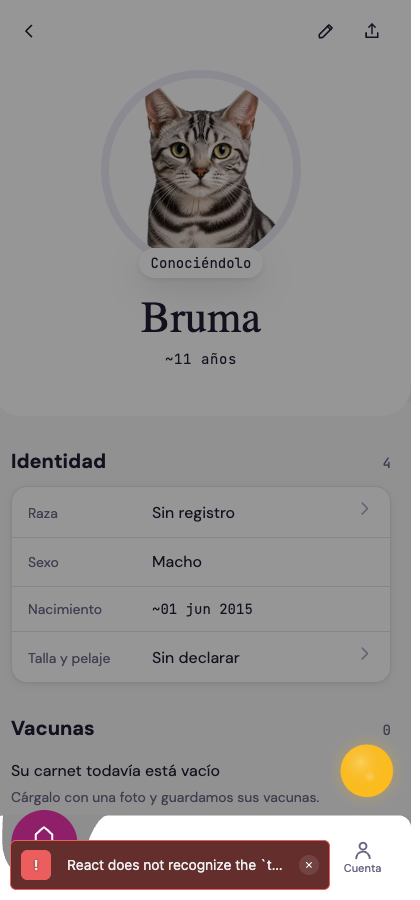
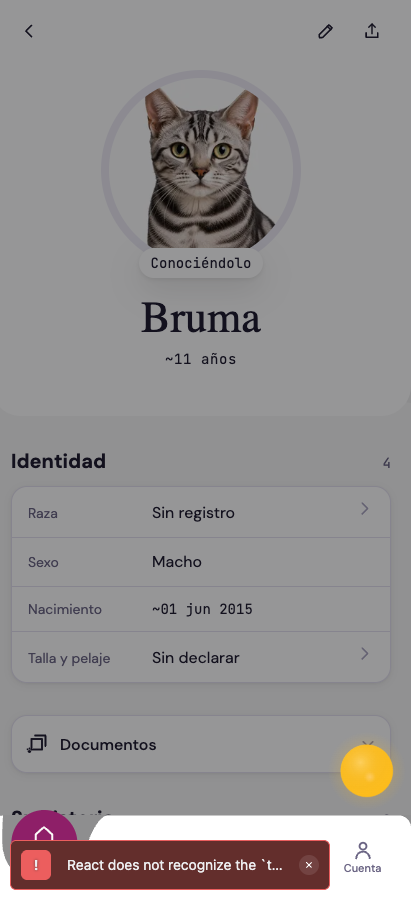
S113-C · lote 0.4: memorial entero — y el gate era ciego al enclítico
Cuenta declarada: guillo381+8@gmail.com (la de Bruma y Sombra).

① D-1024, Y SU SEGUNDA PUERTA QUE NADIE HABIA NOMBRADO
«Cárgalo con una foto» colgaba de `monta.vacunas` (sujeto), no del estado de
vida. La seccion NO muere en memorial: las vacunas que tuvo se leen. Lo que se
apaga es la invitacion cuando no hay ninguna — y con ella la seccion entera,
porque un rotulo «Vacunas 0» sin nada debajo es peor que no estar.
Y la MISMA frase vivia en `hogar/vacunas/[mascotaId]`, con su boton y el mismo
guard muerto del tema. No la nombro nadie: la encontro el censo al sumarla POR
CLASE. Ahi queda el titulo y se retiran descripcion y boton: no se inventa una
voz nueva para el duelo, se retira la que pide.

② EL GATE ERA CIEGO AL ENCLITICO — el hallazgo de metodo
`carg[aá]` ve «carga» y «cargá» y NO ve «Cárgalo»: con enclitico la tilde se
corre a la primera vocal, y las dos voces de la casa la mueven al reves. Una
regex que la espera en una vocal fija ve la mitad del idioma. Ahora se
NORMALIZA y se comparan raices sin tilde.
CONTROL POSITIVO, el que faltaba: se plantan las cinco del mandato en las dos
voces (Cárgalo·Regístralo·Súbelo·Anótalo·Compártelo y Cargalo·Registralo·
Subilo·Anotalo·Compartilo) y el censo sale en 2 si no las ve todas. 10/10.
La primera prueba de un detector no es que apruebe lo bueno: es que marque lo
malo — cuando D-1024 paso por debajo, el censo estaba en verde.

③ D-1026 · LA LIB LEE EL MISMO HECHO, y quien lo destapo fue la casa
[…]

Changed region(s): [[0.031, 0.7778, 0.619, 0.9022], [0.65, 0.8711, 0.7429, 0.9022]]

diff --git a/apps/cliente/src/app/(tabs)/hogar/index.tsx b/apps/cliente/src/app/(tabs)/hogar/index.tsx
@@ -1215,6 +1215,21 @@ export default function Hogar() {
       hoy,
     );
   };
+  /* 🔴 **ARRIBA DE `filasReco`, Y NO DONDE VIVÍA `mascotaDe`.** Puesto abajo
+     compila igual y **crashea la pantalla entera**: `filasReco` es un IIFE que
+     corre al render, así que lee esto antes de que exista (TDZ). Lo destapó el
+     arnés —«Esta pantalla no se pudo mostrar»—, no el typecheck: *un `const`
+     usado antes de declararse es un error de TIEMPO, y el compilador mira
+     tipos.* `verify:ref-antes-de-uso` tampoco lo ve: su alcance escrito son
+     los `useRef`, y esto es una función. */
+  const mascotaDe = (id: string) => (Array.isArray(mascotas) ? mascotas.find((m) => m.id === id) : undefined);
+  /** El hecho, en UN solo lugar de esta pantalla: lo leen el filtro de las
+   *  filas y la lib de pendientes, que antes decían cosas distintas. */
+  const enMemoriaDe = (id: string): boolean => {
+    const m = mascotaDe(id);
+    return m !== undefined && m.estado_vida !== null && m.estado_vida !== 'activa';
+  };
+
   const filasReco: FilaReco_[] = (() => {
     /* ⚠ Este `esMemorial` es el del TEMA, y **en el Hogar es el instrumento
        equivocado**: acá conviven las vivas y las que ya no están, así que un
@@ -1457,10 +1472,7 @@ export default function Hogar() {
        filtro que hay que acordarse de repetir se olvida en la sexta.* Cada fila
        ya declara de quién habla en `mascotaId`, así que el dato para callarla
        estaba y nadie lo miraba — el mismo hallazgo que la primera mitad. */
-    const enMemoria = new Set(
-      mascotas.filter((m) => m.estado_vida !== null && m.estado_vida !== 'activa').map((m) => m.id),
-    );
-    return filas.filter((f) => f.mascotaId === null || !enMemoria.has(f.mascotaId));
+    return filas.filter((f) => f.mascotaId === null || !enMemoriaDe(f.mascotaId));
   })();
   /**
    * A8 (S91-D) — EL CONTEO SALE DE LA LIB, NO DE LAS FILAS.
@@ -1472,7 +1484,6 @@ export default function Hogar() {
    * **La definición sube a `lib/pendientes.ts` y las dos superficies la
    * consumen** (letra de mesa, adoptada antes de que existiera el 2º consumidor).
    */
-  const mascotaDe = (id: string) => (Array.isArray(mascotas) ? mascotas.find((m) => m.id === id) : undefined);
   const fuentesDe = (id: string): FuentesDePendientes => {
     const s = senalesPorMascota.get(id);
     const voz = vozDe(id);
@@ -1489,13 +1500,19 @@ export default function Hogar() {
         voz.causa !== 'emergencia',
       sinNingunaVacuna:
         composicionDe(mascotaDe(id)?.sujeto).vacunas && s !== undefined && s.vacunas_total === 0,
+      enMemoria: enMemoriaDe(id),
     };
   };
-  /** ⚠ El apagado de MEMORIAL vive acá y no en la lib, y es a propósito: la
-   *  lib es dato puro y memorial es un modo de la casa. Un memorial no tiene
-   *  pendientes —no se le agenda, no se le cobra, no se le vacuna— y ése es un
-   *  apagado ESTRUCTURAL, no un filtro. (Sin esto mi propio chequeo gritaría:
-   *  `filasReco` ya devuelve `[]` en memorial.) */
+  /** 🔴 **`D-1026` · ESTA LETRA SE ENMIENDA, Y LA RAZÓN VIEJA NO ERA MALA.**
+   *  Decía: *«el apagado de MEMORIAL vive acá y no en la lib: la lib es dato
+   *  puro y memorial es un modo de la casa»*. Correcto mientras memorial fuera
+   *  el TEMA — pero ese `esMemorial` es justo el que **nadie enciende**
+   *  (`D-1021`), así que el globo de la tira siguió diciendo «1» sobre quien ya
+   *  no está. Con `D-1021` memorial dejó de ser un modo de la casa y pasó a ser
+   *  **un hecho de la mascota** (`estado_vida`) — y un hecho de la mascota SÍ
+   *  es dato puro, así que ahora le corresponde a la lib.
+   *  El `esMemorial` del tema se conserva (la galería lo monta) pero ya no es
+   *  el que rige: rige `enMemoria`, adentro. */
   const pendientesDe = (id: string) => (esMemorial ? 0 : contarPendientesDe(id, fuentesDe(id)));
 
   /**

diff --git a/apps/cliente/src/app/(tabs)/hogar/mascota/[mascotaId].tsx b/apps/cliente/src/app/(tabs)/hogar/mascota/[mascotaId].tsx
@@ -503,7 +503,7 @@ export default function PerfilDeMascota() {
        * Cuenta VECES, no milisegundos: lo que se discute es cuántas. Se retira
        * con D-726, junto con el instrumento del paseo. */
       vecesFocoRef.current += 1;
-      console.log(`[p0c-transversal] perfil de mascota · entra al efecto por VEZ ${vecesFocoRef.current}`);
+      if (__DEV__) console.log(`[p0c-transversal] perfil de mascota · entra al efecto por VEZ ${vecesFocoRef.current}`);
       setVecesFoco(vecesFocoRef.current);
 
       let vigente = true;
@@ -696,6 +696,7 @@ export default function PerfilDeMascota() {
   const pendientes = esMemorial
     ? 0
     : contarPendientesDe(mascota.id, {
+        enMemoria: esMemorial,
         solicitudes,
         presupuestos,
         porCoordinar,
@@ -1412,16 +1413,27 @@ export default function PerfilDeMascota() {
         {/* ── ⑤ VACUNAS — el resumen en UNA fila con el canto de SALUD y
             el pie que revela. "Cargar carnet" ya NO vive acá (se mudó a
             la fila de la ausencia): un solo gesto por sección. */}
-        {monta.vacunas ? (
+        {/* 🔴 **`D-1024`** — `monta.vacunas` decide por SUJETO y este bloque
+            invitaba a «Cárgalo con una foto» en la ficha de quien ya no está.
+            **La sección NO muere en memorial: las vacunas que tuvo SE LEEN.**
+            Lo que se apaga es la invitación cuando no hay ninguna, y con ella
+            la sección entera —un rótulo «Vacunas 0» sin nada debajo es peor
+            que no estar—.
+            ⚠ El guard va DOS veces a propósito: el de acá evita la sección
+            muda, y el de adentro es el que un lector —y el censo— puede
+            verificar sin tener que cruzar dos hechos en la cabeza. */}
+        {monta.vacunas && !(esMemorial && vacunas.length === 0) ? (
         <View style={{ marginTop: spacing[8] }}>
           <RotuloSeccion titulo={t('perfil.vacunas')} cuenta={String(vacunas.length)} />
           <View style={{ paddingHorizontal: spacing[5] }}>
             {vacunas.length === 0 ? (
+              !esMemorial ? (
               <EstadoVacio
                 registro="seccion"
                 titulo={t('perfil.carnetVacio')}
                 descripcion={t('perfil.carnetVacioDetalle')}
               />
+              ) : null
             ) : (
               <>
                 {/* r8 (la lámina lo pide y AHORA existe el destino): el
@@ -2028,10 +2040,18 @@ export default function PerfilDeMascota() {
         {/* 🔴 SONDA TRANSVERSAL DE P0-C (D-728) — se retira con D-726.
             Va al PIE y en voz de dato: no es contenido del expediente. Si este
             número sube al abrir una hoja, la pantalla recarga todo sin que se
-            note — la lentitud general del founder, medida. */}
+            note — la lentitud general del founder, medida.
+            ⚠ **`D-1027` — BAJO `__DEV__`.** Se estaba dibujando en el binario
+            que usa el founder, y el día que lo vio fue en la ficha de una
+            mascota que murió: *un instrumento nuestro, con su jerga adentro,
+            en el peor lugar posible.* La sonda sigue viva porque su medición
+            sigue haciendo falta; lo que se corrige es a quién se la mostramos.
+            No se retira acá: su retiro es de `D-726`, que tiene dueño. */}
+        {__DEV__ ? (
         <Texto variante="dato">
           {`p0c · esta pantalla pidió todo ${vecesFoco} vez/veces`}
         </Texto>
+        ) : null}
 
       </ScrollView>
 

diff --git a/apps/cliente/src/app/(tabs)/hogar/vacunas/[mascotaId].tsx b/apps/cliente/src/app/(tabs)/hogar/vacunas/[mascotaId].tsx
@@ -236,6 +236,13 @@ export default function PlanDeVacunas() {
 
   // la línea de identidad: SOLO lo cargado (raza · peso). La edad exigía
   // clonar la voz del perfil (de C) — se omite antes que duplicarla.
+  /* El mismo hecho que la ficha, derivado del PERFIL y no del tema: `theme.mode
+     === 'memorial'` no lo enciende nadie (`D-1021`), asi que el guard de abajo
+     estaba escrito y muerto. */
+  const esMemorial =
+    theme.mode === 'memorial' ||
+    (perfil.mascota.estado_vida !== null && perfil.mascota.estado_vida !== 'activa');
+
   const identidad = [
     perfil.mascota.raza,
     perfil.peso_clinico_kg !== null ? t('planVacunas.pesoKg', { kg: perfil.peso_clinico_kg }) : null,
@@ -268,7 +275,7 @@ export default function PlanDeVacunas() {
               paddingTop: spacing[2],
             }}
           >
-            <Isotipo size={32} variant={theme.mode === 'memorial' ? 'blanco' : 'gradiente'} />
+            <Isotipo size={32} variant={esMemorial ? 'blanco' : 'gradiente'} />
             <View style={{ flex: 1, gap: spacing[1] }}>
               <Texto variante="titulo">{t('planVacunas.titulo', { nombre })}</Texto>
               {identidad.length > 0 ? <Texto variante="dato">{identidad.join(' · ')}</Texto> : null}
@@ -283,15 +290,20 @@ export default function PlanDeVacunas() {
           // escalonado (Ley 13; el guard R8 de C cazó esto en su primera
           // corrida sobre este archivo — el lint no es decorativo).
           <View style={{ padding: spacing[5] }}>
+            {/* 🔴 En memorial queda el TITULO y nada mas: la ausencia se
+                declara, pero no se invita a llenarla. No se inventa una voz
+                nueva para el duelo — se retira la que pide. */}
             <EstadoVacio
               registro="seccion"
               titulo={t('planVacunas.vacioTitulo')}
-              descripcion={t('planVacunas.vacioDetalle')}
+              descripcion={!esMemorial ? t('planVacunas.vacioDetalle') : undefined}
               accion={
+                !esMemorial ? (
                 <Boton
                   etiqueta={t('planVacunas.cargarCarnet')}
                   onPress={() => router.push({ pathname: '/carnet', params: { mascotaId: perfil.mascota.id, nombre } })}
                 />
+                ) : undefined
               }
             />
           </View>

diff --git a/apps/cliente/src/lib/pendientes.ts b/apps/cliente/src/lib/pendientes.ts
@@ -69,6 +69,20 @@ export interface FuentesDePendientes {
    *  agendada no se resuelve. Si vuelve, vuelve con su voz. */
   tieneAlertaDeVacuna: boolean;
   sinNingunaVacuna: boolean;
+  /**
+   * 🔴 **`D-1026` — LA LIB LEE EL MISMO HECHO QUE TODO LO DEMÁS.** El globo de
+   * la tira del Hogar seguía diciendo «1» sobre una mascota que ya no está, y
+   * **quien lo destapó fue el cotejo de dev de esta misma casa**: las filas ya
+   * filtraban por mascota y la lib no, así que la consola avisó *«las filas
+   * dicen 0 y la lib 1»*. Ese aviso existía para cazar una clase de fila
+   * nueva; cazó una asimetría entre dos curas.
+   *
+   * Va acá y no en el llamador porque **la lib es la pieza compartida**: curar
+   * al que llama deja al próximo consumidor contando de nuevo. Y es
+   * OBLIGATORIO a propósito — el compilador le pide el dato a cada superficie,
+   * que es la única forma de que ninguna se olvide.
+   */
+  enMemoria: boolean;
 }
 
 /**
@@ -80,6 +94,9 @@ export function pendientesDeMascota(
   mascotaId: string,
   fuentes: FuentesDePendientes,
 ): ClasePendiente[] {
+  /* Nada se le resuelve a quien ya no está: no es que las clases den cero, es
+     que la pregunta no aplica (`A3.9` · `MODELO_LOYALTY §7.1`). */
+  if (fuentes.enMemoria) return [];
   const clases: ClasePendiente[] = [];
   for (const s of fuentes.solicitudes) if (s.mascotaId === mascotaId) clases.push('solicitud');
   for (const p of fuentes.presupuestos) if (p.mascotaId === mascotaId) clases.push('presupuesto');

diff --git a/docs/loop/S113-C-07.md b/docs/loop/S113-C-07.md
@@ -1,0 +1,112 @@
+# S113-C · lote 0.4 · memorial entero
+
+Rama `pista/s113-c-07`, desde main `f1ec3b9a`.
+**Cuenta declarada: `guillo381+8@gmail.com`** (la de Bruma y Sombra; el
+`.env.local` trae otra, y por eso los arneses ahora la imprimen).
+
+## ① D-1024 — y su segunda puerta, que nadie había nombrado
+
+«Cárgalo con una foto y guardamos sus vacunas» colgaba de `monta.vacunas`
+(sujeto), no del estado de vida. **La sección no muere en memorial: las vacunas
+que tuvo se leen.** Lo que se apaga es la invitación cuando no hay ninguna —y
+con ella la sección entera, porque un rótulo «Vacunas 0» sin nada debajo es peor
+que no estar—.
+
+🔴 **Y la misma frase vivía en una segunda pantalla**: `hogar/vacunas/[mascotaId]`
+la monta con su botón «Cargar el carnet», con el mismo guard muerto del tema.
+No la nombró nadie: **la encontró el censo al sumarla por clase**. Ahí queda el
+título (la ausencia se declara) y se retiran descripción y botón: *no se inventa
+una voz nueva para el duelo, se retira la que pide.*
+
+## ② El gate era ciego al enclítico — y ése es el hallazgo de método
+
+`carg[aá]` ve «carga» y «cargá» y **no ve «Cárgalo»**: con enclítico la tilde se
+corre a la primera vocal. *Una regex que espera el acento en una vocal fija ve
+la mitad del idioma* — y las dos voces de la casa lo mueven al revés (el voseo a
+la última, el tuteo a la primera). Ahora **se normaliza y se comparan raíces sin
+tilde**: una lista cubre las dos voces y todos los enclíticos.
+
+**Control positivo, el que faltaba**: se le plantan las cinco del mandato en las
+dos voces — *Cárgalo · Regístralo · Súbelo · Anótalo · Compártelo* y *Cargalo ·
+Registralo · Subilo · Anotalo · Compartilo* — y **sale en 2 si no las ve todas**.
+`10 plantadas · las ve todas ✓`. *La primera prueba de un detector no es que
+apruebe lo bueno: es que marque lo malo* — cuando `D-1024` pasó por debajo, el
+censo estaba en verde.
+
+## ③ D-1026 — la lib lee el mismo hecho, y quien lo destapó fue la casa
+
+El globo de la tira decía «1» sobre quien ya no está. **Lo destapó el cotejo de
+dev de este mismo archivo**: las filas ya filtraban y la lib no, así que la
+consola avisó *«las filas dicen 0 y la lib 1»*. Ese aviso existía para cazar una
+clase de fila nueva; cazó una asimetría entre dos curas.
+
+`enMemoria` entra a `FuentesDePendientes` **obligatorio**: el compilador se lo
+pidió a las dos superficies, que es la única forma de que ninguna se olvide. Va
+en la lib y no en el llamador porque **la lib es la pieza compartida**.
+
+⚠ **Enmiendo una letra vieja y la razón vieja no era mala.** Decía *«el apagado
+de memorial vive acá y no en la lib: la lib es dato puro y memorial es un modo
+de la casa»* — correcto mientras memorial fuera el TEMA. Con `D-1021` memorial
+pasó a ser **un hecho de la mascota**, y un hecho de la mascota sí es dato puro.
+
+**Rojo y verde, con el mismo instrumento:**
+
+```
+ROJO  (sin el guard)   Zeus «1» · Kira «1» · Bruma «1» · Thor sin · Sombra «1»
+VERDE (con el guard)   Zeus «1» · Kira «1» · Bruma SIN · Thor sin · Sombra SIN
+```
+
+## ④ D-1027 — la sonda, y se prueba que no viaja
+
+`p0c` se dibujaba en el binario del founder, y el día que la vio fue en la ficha
+de una mascota que murió: *un instrumento nuestro, con su jerga adentro, en el
+peor lugar posible.* Bajo `__DEV__` (la sonda sigue viva porque su medición hace
+falta; su retiro es de `D-726`, que tiene dueño).
+
+**No se declara por lectura del código: se exportó el bundle de producción.**
+`esta pantalla pidió todo` → **0 ocurrencias**, con control positivo (una frase
+que sí debe viajar aparece 1 vez), *porque un grep que da 0 puede querer decir
+«no está» o «busqué mal»*.
+
+## ⑤ 🔴 ME COMÍ UN TDZ Y LO ENCONTRÓ EL ARNÉS, NO EL TYPECHECK
+
+Puse `enMemoriaDe` donde vivía `mascotaDe` —abajo— y `filasReco` es un IIFE que
+corre al render: **el Hogar entero dejó de dibujarse** («Esta pantalla no se
+pudo mostrar»). Compila perfecto: *un `const` usado antes de declararse es un
+error de TIEMPO, y el compilador mira tipos.* `verify:ref-antes-de-uso` tampoco
+lo ve — su alcance escrito son los `useRef`, y esto es una función. Es la misma
+clase que costó el crash del hilo de adopción en S112.
+
+## ⑥ EL ARNÉS SE CORRIGIÓ TRES VECES MÁS, Y LAS TRES ERAN ÉL
+
+- buscaba el globo por la frase «por resolver» — **el globo es un círculo con un
+  número**: daba «ninguno» para todas, incluida Zeus, que sí tiene;
+- lo buscó por «el primer dígito de la tarjeta» ⇒ **«1» para las cinco**, que es
+  la respuesta que da un instrumento roto: todas iguales;
+- lo buscó por cercanía ⇒ le atribuyó a Sombra el globo de su vecina. En una
+  tira horizontal las tarjetas están a 90 px y el globo vive en el borde. Ahora
+  es **por contención**: el centro del globo cae dentro de la tarjeta.
+
+Queda como instrumento: `scripts/medir-globo-tira.mjs`.
+
+## LA MEDICIÓN, con Zeus de control
+
+| | **Bruma** | **Zeus** |
+|---|---|---|
+| verbos que le piden | **ninguno ✓** | Cargar · Reservar |
+| globo en la tira | **sin globo ✓** | «1» |
+| disco | «Lo que te espera» | «Abrir a Nexo» |
+| pata abierta | sin dedos | Peso · Vacuna · Antiparasitario · Foto |
+| errores de página | 0 | 0 |
+
+## GATES
+
+`pide-en-memorial` **16 · 0 fuera** (control positivo 10/10) · `nexo` **344 · 0**
+· `hooks` · `hooks-bajo-return` · `ref-antes-de-uso` · `gates-existen` ·
+`razon-muda` · `puerta-unica` · `diseno` **61 reglas** · `coach` **125 · 0** ·
+`glifos` **31 · 0** · `contrast` OK · `tipos:rutas` OK · **4 tsc en 0**.
+
+## QUÉ NO TOQUÉ
+
+`packages/*` · `supabase/*` · el prestador. Ninguna key de i18n nueva.
+**Cero aparato.**
